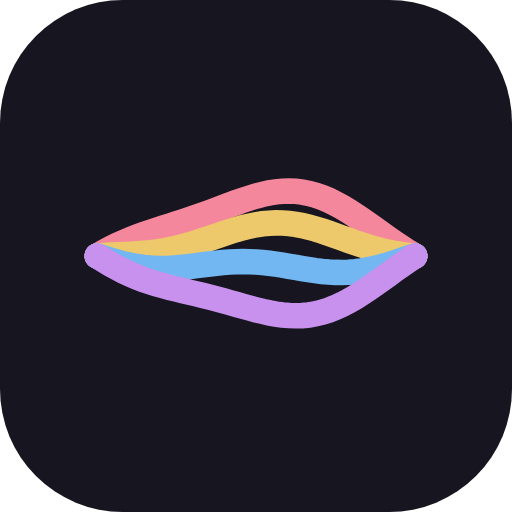
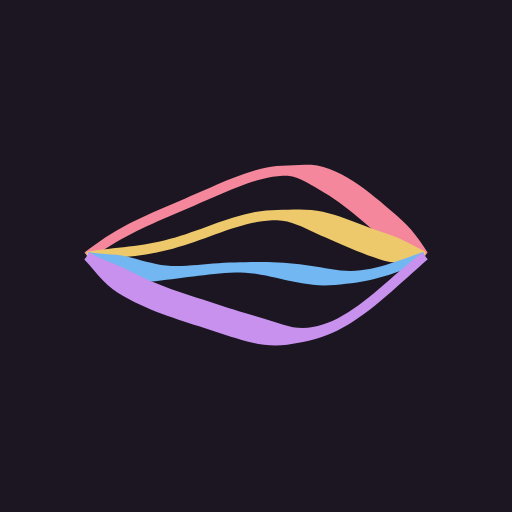
Paper design and the pointed-pen title animation become the default
Everyone now sees "Papier & Feder": night paper, vellum, embossed buttons,
punched voice chips, the lit punched roll, the score on paper, pen-written
covers. The title animation is draft 2: the voice lines written one after
another from the highest down with a pointed pen, then swinging and glowing
together. ?design=samt and ?logo=1 still switch a device back.

New app icons and favicon: the four voice lines written with a pointed pen on
night paper (theme colour follows); the service worker's cache name is bumped
so installed apps pick them up. The header's mark is now drawn when coming
from the title screen (it had no size there before).

Claude-Session: https://claude.ai/code/session_01PUjF84FS4pT1o2Now94We7

diff --git a/src/design.ts b/src/design.ts
@@ -1,6 +1,6 @@
-// Which look this device shows. The default is what the whole choir sees; a device can try another
-// by opening the app with ?design=papier (or ?logo=2, ?roll=lantern), and keeps it until opened with
-// the default again (?design=samt).
+// Which look this device shows. The default is what the whole choir sees; a device can switch to
+// another by opening the app with ?design=samt (or ?logo=1, ?roll=gel), and keeps it until opened
+// with the default again (?design=papier).
 //
 // 'samt': velvet ground with slow waves, glass panels, gel notes ("Samt & Glas").
 // 'papier': night paper everywhere, vellum overlays, embossed buttons, the punched roll lit from
@@ -24,11 +24,11 @@ export function deviceChoice<T extends string>(param: string, key: string, value
 }
 
 export type Design = 'samt' | 'papier';
-export const DESIGN: Design = deviceChoice('design', 'ai-capella-design', ['samt', 'papier'] as const, 'samt');
+export const DESIGN: Design = deviceChoice('design', 'ai-capella-design', ['samt', 'papier'] as const, 'papier');
 export const PAPER_DESIGN = DESIGN === 'papier';
 
-/** The two drafts of the pen-written title animation (see artwork.ts animatePen). */
+/** The two drafts of the pen-written title animation (see artwork.ts drawPenRibbons); '2' was chosen. */
 export type LogoDraft = '1' | '2';
-export const LOGO_DRAFT: LogoDraft = deviceChoice('logo', 'ai-capella-logo', ['1', '2'] as const, '1');
+export const LOGO_DRAFT: LogoDraft = deviceChoice('logo', 'ai-capella-logo', ['1', '2'] as const, '2');
 
 document.documentElement.dataset.design = DESIGN;

diff --git a/src/artwork.ts b/src/artwork.ts
@@ -179,17 +179,17 @@ export function drawMark(ctx: CanvasRenderingContext2D, size: number, withTile: 
   const x0 = size * (withTile ? 0.19 : 0.06);
   const x1 = size * (withTile ? 0.81 : 0.94);
   if (PAPER_DESIGN) {
-    // Written with a broad nib, as in the title animation.
+    // Written with a pointed pen, as in the title animation (and the app icon, public/icon-*.png).
     for (let i = 0; i < 4; i++) {
       const k = i - 1.5;
       const pts: Pt[] = [];
       for (let s = 0; s <= 48; s++) {
         const u = s / 48;
         const env = Math.sin(Math.PI * u);
-        pts.push([x0 + (x1 - x0) * u, size * 0.5 + k * size * (withTile ? 0.085 : 0.11) * env + Math.sin(u * Math.PI * 2 + i * 0.9) * size * 0.03 * env]);
+        pts.push([x0 + (x1 - x0) * u, size * 0.5 + k * size * (withTile ? 0.105 : 0.12) * env + Math.sin(u * Math.PI * 2 + i * 0.9) * size * 0.03 * env]);
       }
       const stroke = new Path2D();
-      broadNib(stroke, pts, { w: Math.max(1.6, size * (withTile ? 0.075 : 0.1)), angle: 35, floor: 0.25, taper: 0.1 });
+      pointedPen(stroke, pts, { w: Math.max(2, size * (withTile ? 0.052 : 0.07)), hair: Math.max(0.9, size * 0.018), taper: 0.12 });
       ctx.fillStyle = colorForPart(i, 4);
       ctx.fill(stroke, 'nonzero');
     }

diff --git a/src/main.ts b/src/main.ts
@@ -307,7 +307,11 @@ function setViewMode(mode: 'landing' | 'library' | 'player') {
     stopLandingRibbons();
     stopLandingRibbons = null;
   }
-  if (mode === 'library') requestAnimationFrame(drawAllCovers);
+  if (mode === 'library') {
+    requestAnimationFrame(drawAllCovers);
+    // The header's mark had no size while the title screen was showing.
+    requestAnimationFrame(drawMarks);
+  }
   if (mode === 'player') {
     // The canvases were hidden (display:none) while in library mode, so their layout size wasn't
     // knowable until now.

diff --git a/index.html b/index.html
@@ -3,7 +3,7 @@
   <head>
     <meta charset="UTF-8" />
     <meta name="viewport" content="width=device-width, initial-scale=1.0, viewport-fit=cover" />
-    <meta name="theme-color" content="#0D0C16" />
+    <meta name="theme-color" content="#1B1621" />
     <meta name="description" content="Rehearsal companion for a cappella groups: play any voice, alone or in sync." />
     <meta name="apple-mobile-web-app-capable" content="yes" />
     <meta name="mobile-web-app-capable" content="yes" />

diff --git a/public/sw.js b/public/sw.js
@@ -6,7 +6,7 @@
 // - Everything else from this site (hashed build files, fonts, icons, the sample song, the piano
 //   samples): stored copy first, network otherwise -- build files never change under the same name.
 // - Other hosts (Firebase) are left alone.
-const CACHE = 'ai-capella-v1';
+const CACHE = 'ai-capella-v2'; // v2: the paper design's icons
 
 self.addEventListener('install', (event) => {
   event.waitUntil(

diff --git a/PROJECT.md b/PROJECT.md
@@ -345,23 +345,26 @@ layer (strength between "subtle" and "balanced" of its design draft):
   in the voice colour on sounding notes, a warm beam for the playhead, the pearl play button,
   and a soft glow on switches that are on. Repertoire cards tilt toward a mouse with a spot of
   light following it. With reduced transparency everything glass becomes solid.
-- **"Papier & Feder" (built, not yet the default).** `design.ts` picks the look per device: the
-  default (what the choir sees) is still Samt & Glas; a device opened with `?design=papier` keeps
-  the paper design until opened with `?design=samt` (`deviceChoice`, also used for `?roll=` and
-  `?logo=`). In it, night paper (`#1b1621` with fibres, the punched roll's paper) is the ground
-  everywhere and the waves are gone; the ink tokens shift to the paper's tones; bars are paper
-  sheets, overlays vellum (tracing paper, blurred); the play button and pressed switches are
-  blind-embossed; a voice chip is a punched hole lit in the voice's colour (covered when off). The
-  sheet view draws on a clear canvas over the stage's paper, with the lamp's strip at the playhead
-  (`theme.ts readingStrip`). Lines drawn by hand use `pen.ts`: a broad nib (thick across the nib,
-  hairline along it) or a pointed pen (swelling on downstrokes). Covers are the song's voice lines
-  written with the broad nib; the app mark too. The title animation (`artwork.ts drawPenRibbons`)
-  writes the voice lines left to right with a pen while they already sway, then lets them swing
-  out fully, glow and carry their beads as before -- draft 1 (`?logo=1`, default): broad nib, all
-  voices together; draft 2 (`?logo=2`): pointed pen, the voices one after another from the highest
-  down, like the starting tones before the chord.
+- **"Papier & Feder" -- the current look (default since September 2026).** `design.ts` picks the
+  look per device (`deviceChoice`, also used for `?roll=` and `?logo=`): the paper design for
+  everyone; `?design=samt` switches a device back to Samt & Glas (the previous look, kept in the
+  code), `?design=papier` returns it. Night paper (`#1b1621` with fibres, the punched roll's paper)
+  is the ground everywhere and the waves are gone; the ink tokens shift to the paper's tones; bars
+  are paper sheets, overlays vellum (tracing paper, blurred); the play button and pressed switches
+  are blind-embossed; a voice chip is a punched hole lit in the voice's colour (covered when off).
+  The sheet view draws on a clear canvas over the stage's paper, with the lamp's strip at the
+  playhead (`theme.ts readingStrip`). Lines drawn by hand use `pen.ts`: a broad nib (thick across
+  the nib, hairline along it) or a pointed pen (swelling on downstrokes). Covers are the song's
+  voice lines written with the broad nib. The title animation (`artwork.ts drawPenRibbons`) writes
+  the voice lines left to right with a pointed pen, one voice after another from the highest down
+  (like the starting tones before the chord), while they already sway; once all have arrived they
+  swing out fully, glow and carry their beads. (Draft 1, a broad nib writing all voices together,
+  is still there as `?logo=1`.) The app mark, app icons and favicon are the four voice lines
+  written with the pointed pen on night paper (icons generated from the same geometry as
+  `drawMark`; the service worker's cache name was bumped so installed apps pick them up).
 - **Piano roll as a lit paper roll ("lantern").** `NOTE_STYLE` in `pianoRoll.ts`: part of the
-  paper design; any device can also pick it with `?roll=lantern` / `?roll=gel`. The roll is dark paper (with fibres, `theme.ts paperGrain`) with a round hole per
+  paper design (Samt & Glas uses the gel notes); any device can also pick it with `?roll=lantern`
+  / `?roll=gel`. The roll is dark paper (with fibres, `theme.ts paperGrain`) with a round hole per
   note, cut into the content buffer (a turned-down voice's holes are only marked, not cut). A lamp
   sits behind the paper at the reading line (`lantern.ts`): through the holes each voice's
   colour, full in the lamp's spot and dimmer with distance (never unreadable), white-hot right at
